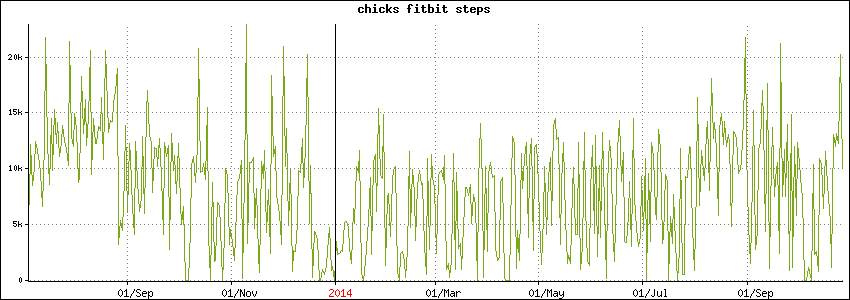
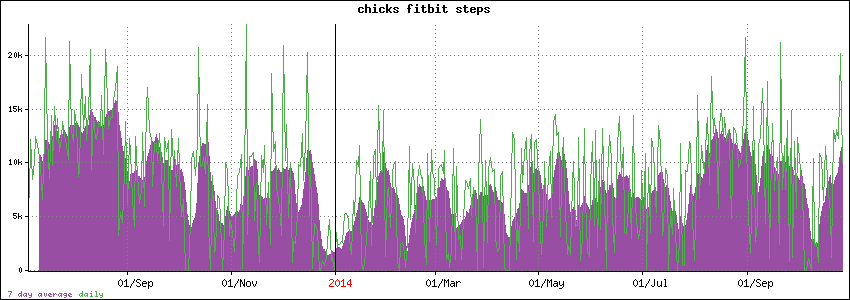
finish fitbit chart and include on dashboard

diff --git a/Dash/README.md b/Dash/README.md
@@ -1,6 +1,10 @@
 chicks dashboard
 ================
 
+fitbit
+------
+![fitbit!](fitbit_chicks.png)
+
 distributed.net
 ---------------
 ![rc5_rank](rank_rc5-72_chicks.png)
